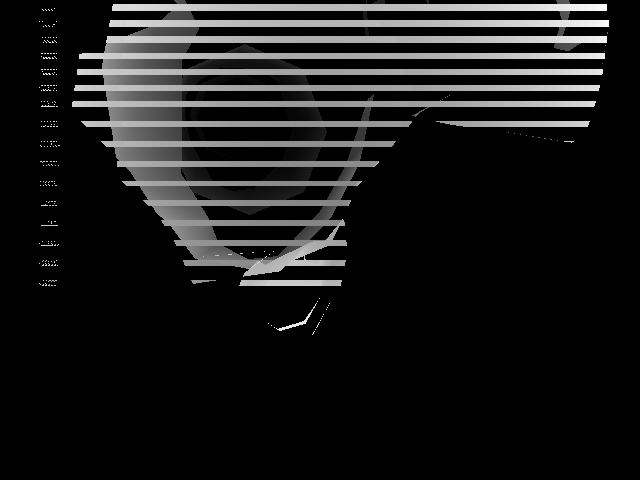
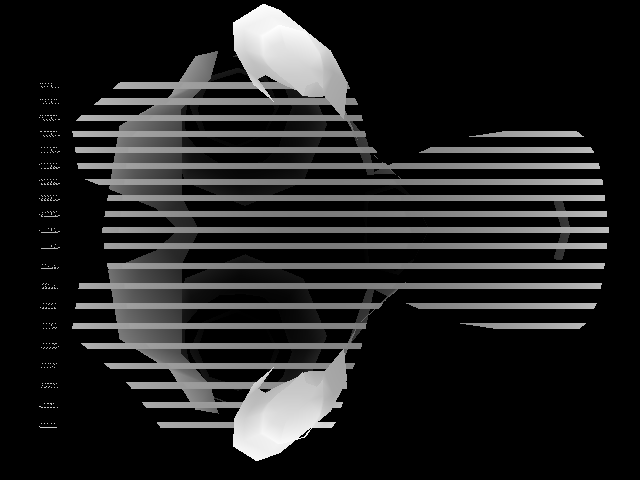
Benchmarking

diff --git a/examples/duck.py b/examples/duck.py
@@ -80,8 +80,8 @@ def render():
     
     # color[error_mask] = 0
 
-    ims = r.render(scene, drr_mode=DRRMode.DENSITY, flags=RenderFlags.RGBA, zfar=zfar)
-    # ims = r.render(scene, drr_mode=DRRMode.BACKDIST, flags=RenderFlags.RGBA, zfar=zfar)
+    # ims = r.render(scene, drr_mode=DRRMode.DENSITY, flags=RenderFlags.RGBA, zfar=zfar)
+    ims = r.render(scene, drr_mode=DRRMode.BACKDIST, flags=RenderFlags.RGBA, zfar=zfar)
     # color, depth = r.render(scene, drr_mode=DRRMode.FRONTDIST)
 
 
@@ -92,12 +92,14 @@ def render():
 ims = render()
 
 
-# N=1000
-# start_time = time.perf_counter()
-# for i in range(N):
-#     color, depth = render()
+N=1000
+start_time = time.perf_counter()
+for i in range(N):
+    ims = render()
 
-# print("FPS: ", N / (time.perf_counter() - start_time))
+print("FPS: ", N / (time.perf_counter() - start_time))
+
+exit()
 
 r.delete()
 

diff --git a/TODO.md b/TODO.md
@@ -1,6 +1,6 @@
 # TODO
 <!-- - Return peeling array up to 8 -->
-- Support multi material
+<!-- - Support multi material -->
 - Support more than 8 peels
 - Zero copy buffers to cuda
 
